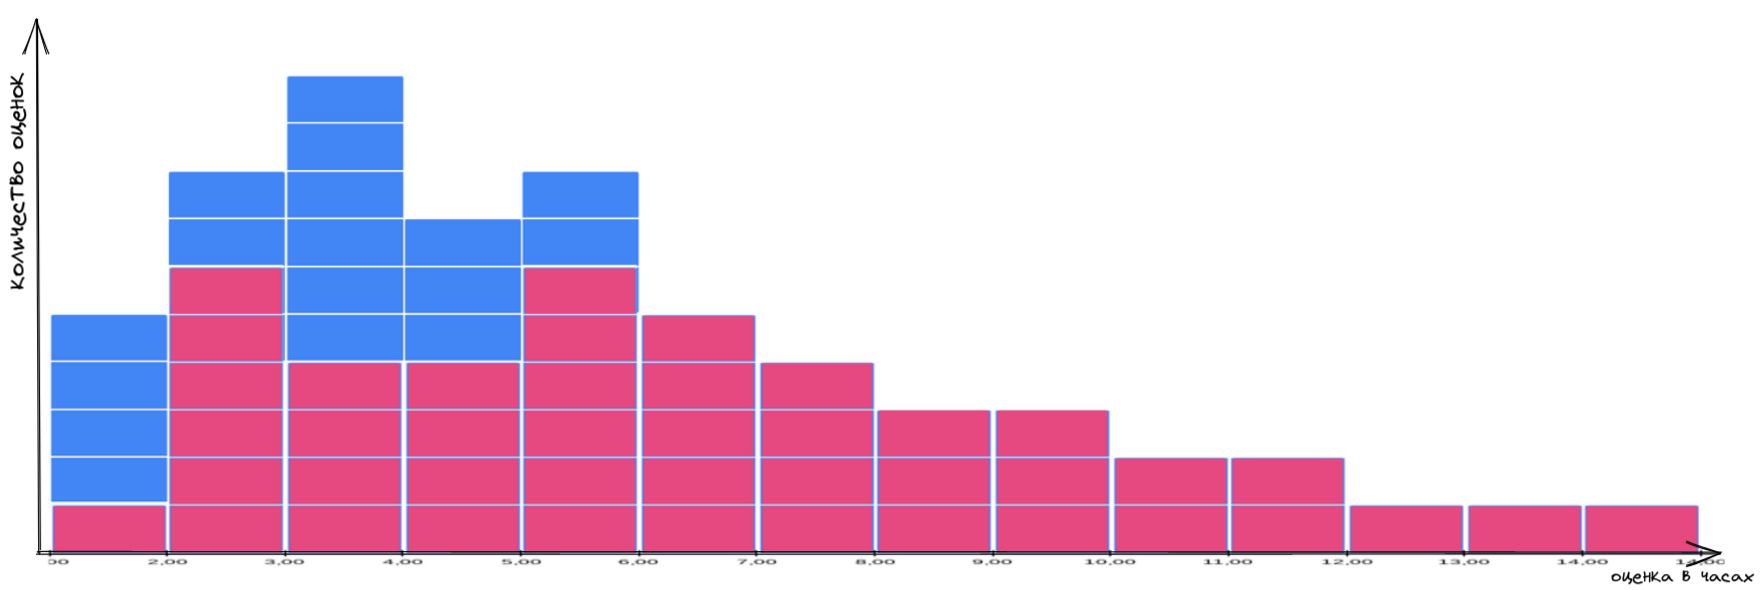
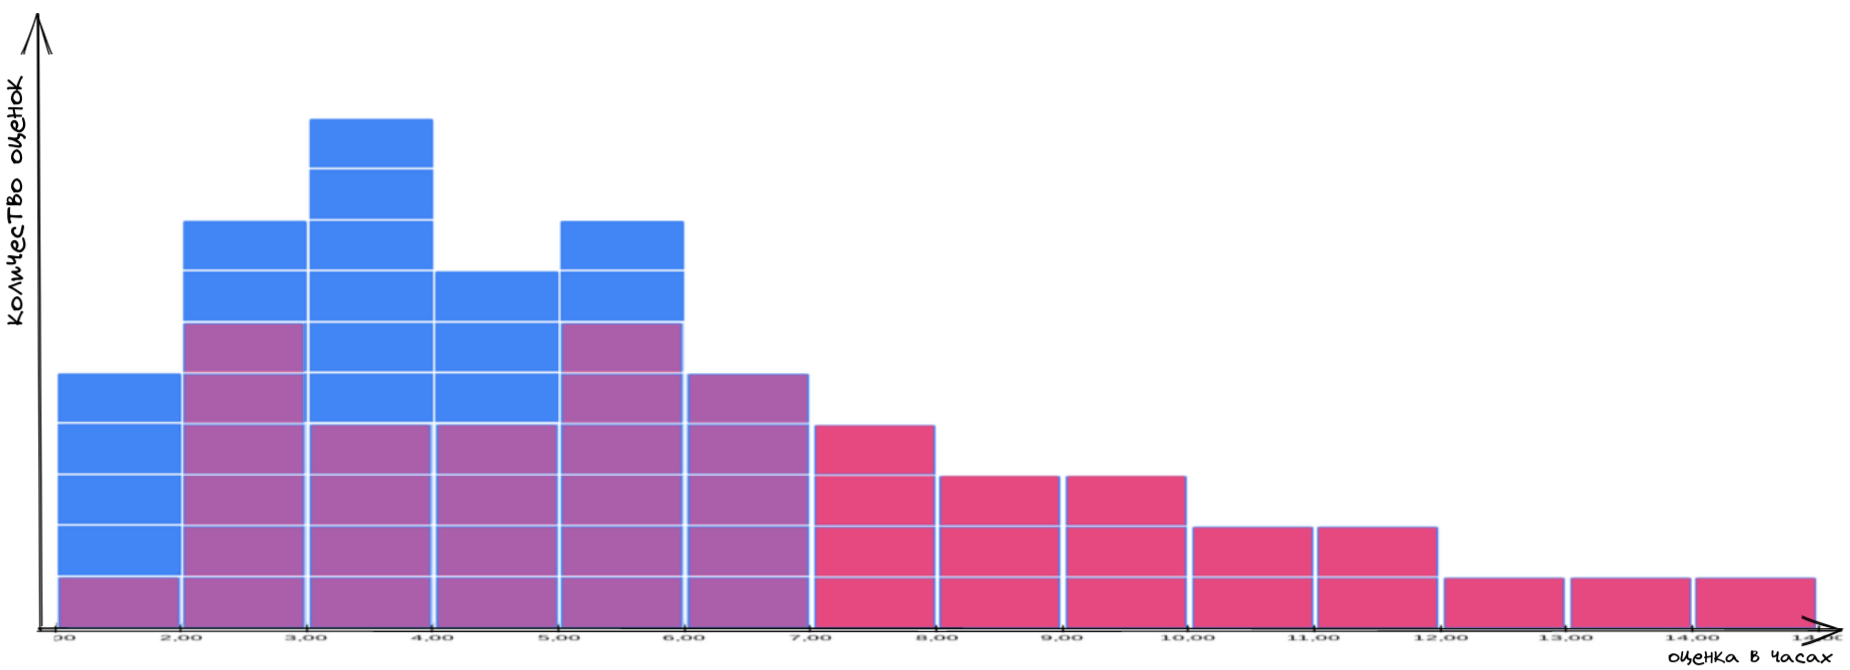
Сделал иллюстрации с вариабельностью внутри оценки. Заменил картинку с план-фактом оценок.

Changed region(s): [[0.0, 0.122, 0.9994, 1.0], [0.0, 0.0305, 0.0312, 0.4881]]

diff --git a/posts/Вариабельность.md b/posts/Вариабельность.md
@@ -30,7 +30,7 @@
 ![Распределение вероятности Васиных обещаний](res/ksnip_20220720-162918.png)
 
 
-Видим, что больше всего к Васе попадает задач, которые он оценивает в 5 часов. Задач, которые Вася оценивает в 4 часа меньше всех. С таким набором данных можно сказать что _скорее_ всего Вася сделает любую поставленную ему задачу за 5 часов. Иногда он сделает её за час. А за 6 часов он точно справится.
+Видим, что больше всего к Васе попадает задач, которые он оценивает в 5 часов. Задач, которые Вася оценивает в 4 часа меньше всех. С таким набором данных можно сказать что _скорее всего_ Вася сделает любую поставленную ему задачу за 5 часов. Иногда он сделает её за час. А за 6 часов он точно справится.
 
 
 Вася — крутой и надёжный специалист!
@@ -67,7 +67,7 @@
 
 Давайте спросим у Васи: _"А почему в этом вот случае ты дал именно такую оценку? С чем это связано?"_
 
-А Вася ответит: _"Для этой задачи мне нужно привлекать Петю, а он вечно занят. Нужно за ним бегать и упрашивать уделить мне время и внимание. Мне постоянно приходится напоминать ему своей задаче."_
+А Вася ответит: _"Для этой задачи мне нужно привлекать Петю, а он вечно занят. Нужно за ним бегать и упрашивать уделить мне время и внимание. Мне постоянно приходится напоминать ему р своей задаче."_
 
 Похоже что-то начинает проясняться. 
 
@@ -84,13 +84,13 @@
 Вася выдаёт оценки. Мы знаем разброс этих оценок и можем на них опираться в нашей деятельности.
 
 Красота-то какая! Лепота!
-![Красота-то какая! Лепота!](res/photo_2022-07-22_18-03-43.png)
+
+![Иван Васильевич любуется результатами нашей работы](res/photo_2022-07-22_18-03-43.png)
 
 Но вот, проходит время и мы начинаем замечать, что Вася стал ошибаться в своих оценках. Обещал сделать за 3 дня, а делает за 5, а то и за 7. Но самое печальное в том, что стали попадаться такие задачи, опоздание по которым превышает все мыслимые пределы.
 
 Вот иллюстрация. Синим - то что было запланировано: от одного до шести дней. Красным то, как получилось по факту: многие задачи были сделаны больше чем за 12 дней.
 
-# !!! Сделать иллюстрацию с полупрозрачным красным. Чтобы было видно синие прямоугольники, которые были изначально !!!
 ![План-факт](res/ksnip_20220722-193930.png)
 
 Мы больше не можем доверять нашему методу оценки. Вася перестал держать слово - его репутация под угрозой!
@@ -128,19 +128,21 @@
 
 
 Отлично! 
-> Здесь нужно вставить иллюстрацию с одной оценкой в диапазоне. 
+
+![Размах значений в одной оценке](res/ksnip_20220726-185628.png)
+
 
 Теперь оценка от Васи выглядит как диапазон от 4 до 15 часов. Хотя изначально была 6. 
-Почему так? Дело в том, что не имея возможности сказать точную оценку, Вася выдавал наиболее вероятную. То  есть оптимистичную оценку, плюс ещё како-то запас времени на непредвиденные ситуации. Но этого запаса времени всё равно иногда не хватало, поэтому Вася и не вписывался в обещанную дату завершения. 
+Почему так? Дело в том, что не имея возможности сказать точную оценку, Вася выдавал наиболее вероятную. То есть оптимистичную оценку, плюс ещё какой-то запас времени на непредвиденные ситуации. Но этого запаса времени всё равно иногда не хватало, поэтому Вася и не вписывался в обещанную дату завершения. 
 
 Давайте соберём статистику с такими диапазонными значениями.
 
->  Иллюстрацию с набором таких диапазонных оценок (японские свечи).
+![Набор диапазонов оценок](res/ksnip_20220727-174015.png)
 
-Хорошо, собрали, что теперь? Какие выводы можно сделать из собранных данных?
+Какие выводы можно сделать из собранных данных?
 
-Выводы такие:
-Какие-то задачи мы делаем с низкой вариабельностью, у каких-то задач вариабельность оценки высокая.
+Например, такие:
+Одни задачи мы делаем с низкой вариабельностью, у других задач вариабельность оценки высокая.
 
 Значит, что у нас есть разные типы задач. В зависимости от типа задачи изменяется точность её прогноза.
 
@@ -150,7 +152,7 @@
 
 - Есть задачи по которым Вася даёт точный прогноз - это задачи понятные, он их уже знает, он такие уже делал.
 - Есть задачи, где вариабельность прогноза не большая. Это задачи с которыми Вася сталкивается впервые, но они понятны и не содержат в себе много неожиданностей.
-- Есть задачи с высокой вариабельностью оценки. Это задачи, которые Вася делает впервые, там много не понятного и не ясно с какими преградами можно столкнуться по пути.
+- Есть задачи с высокой вариабельностью оценки. Это задачи, которые Вася делает впервые, но там много не понятного и неясно с какими преградами можно столкнуться по пути.
 
 
 
